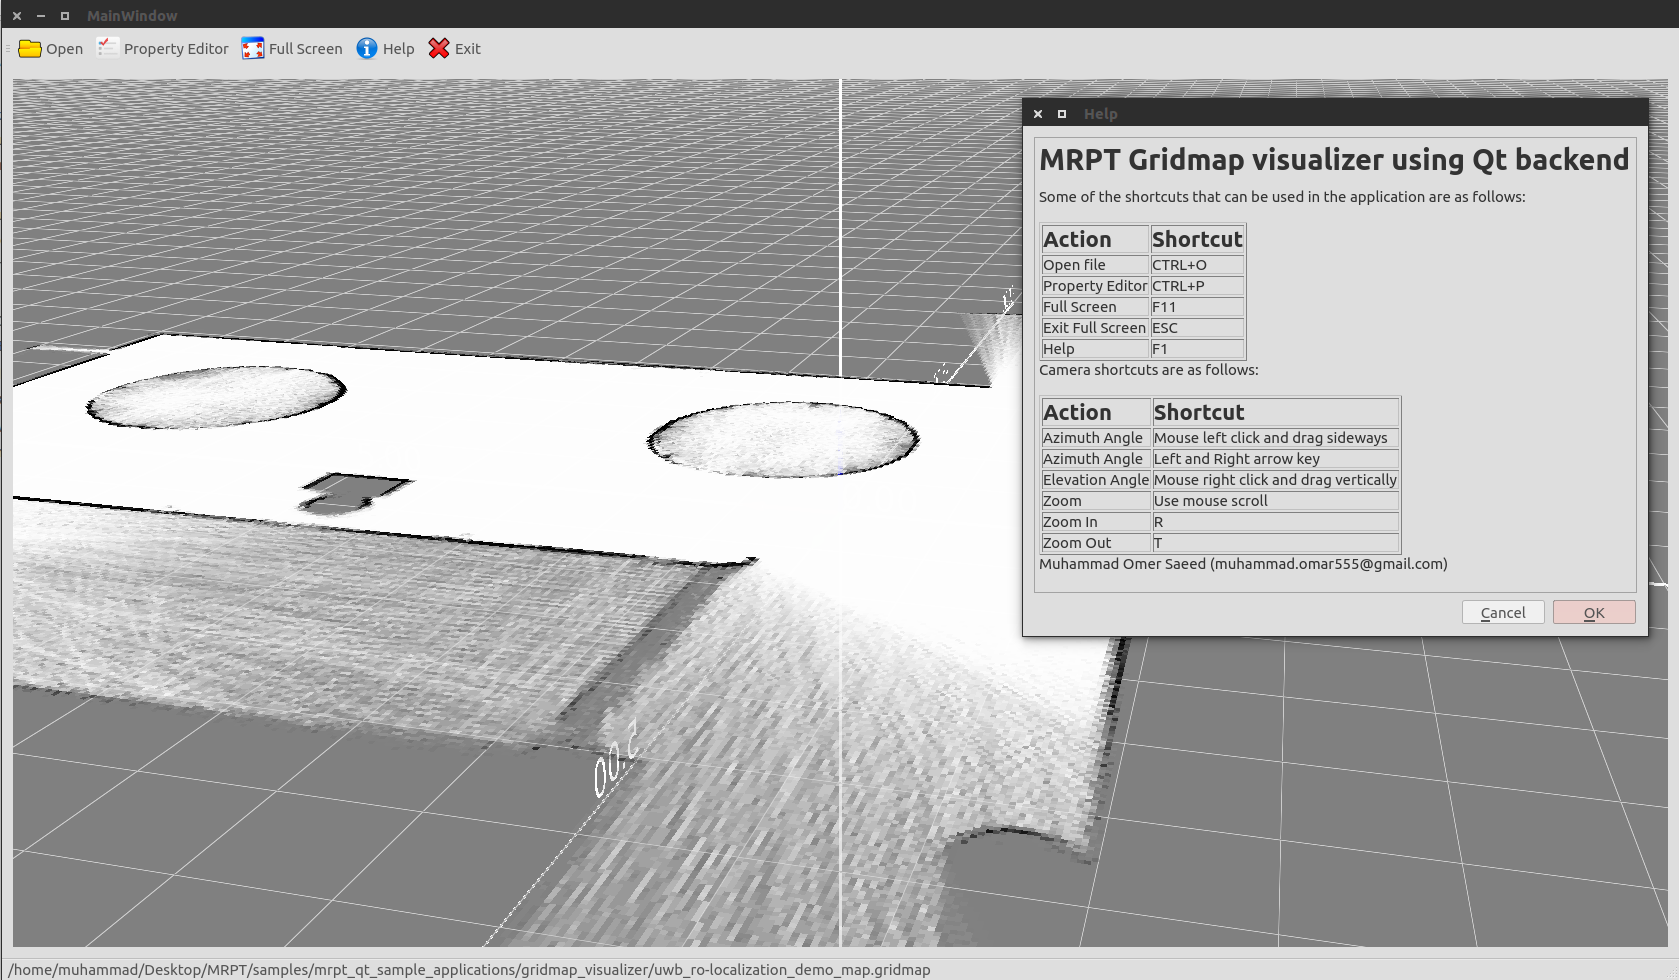
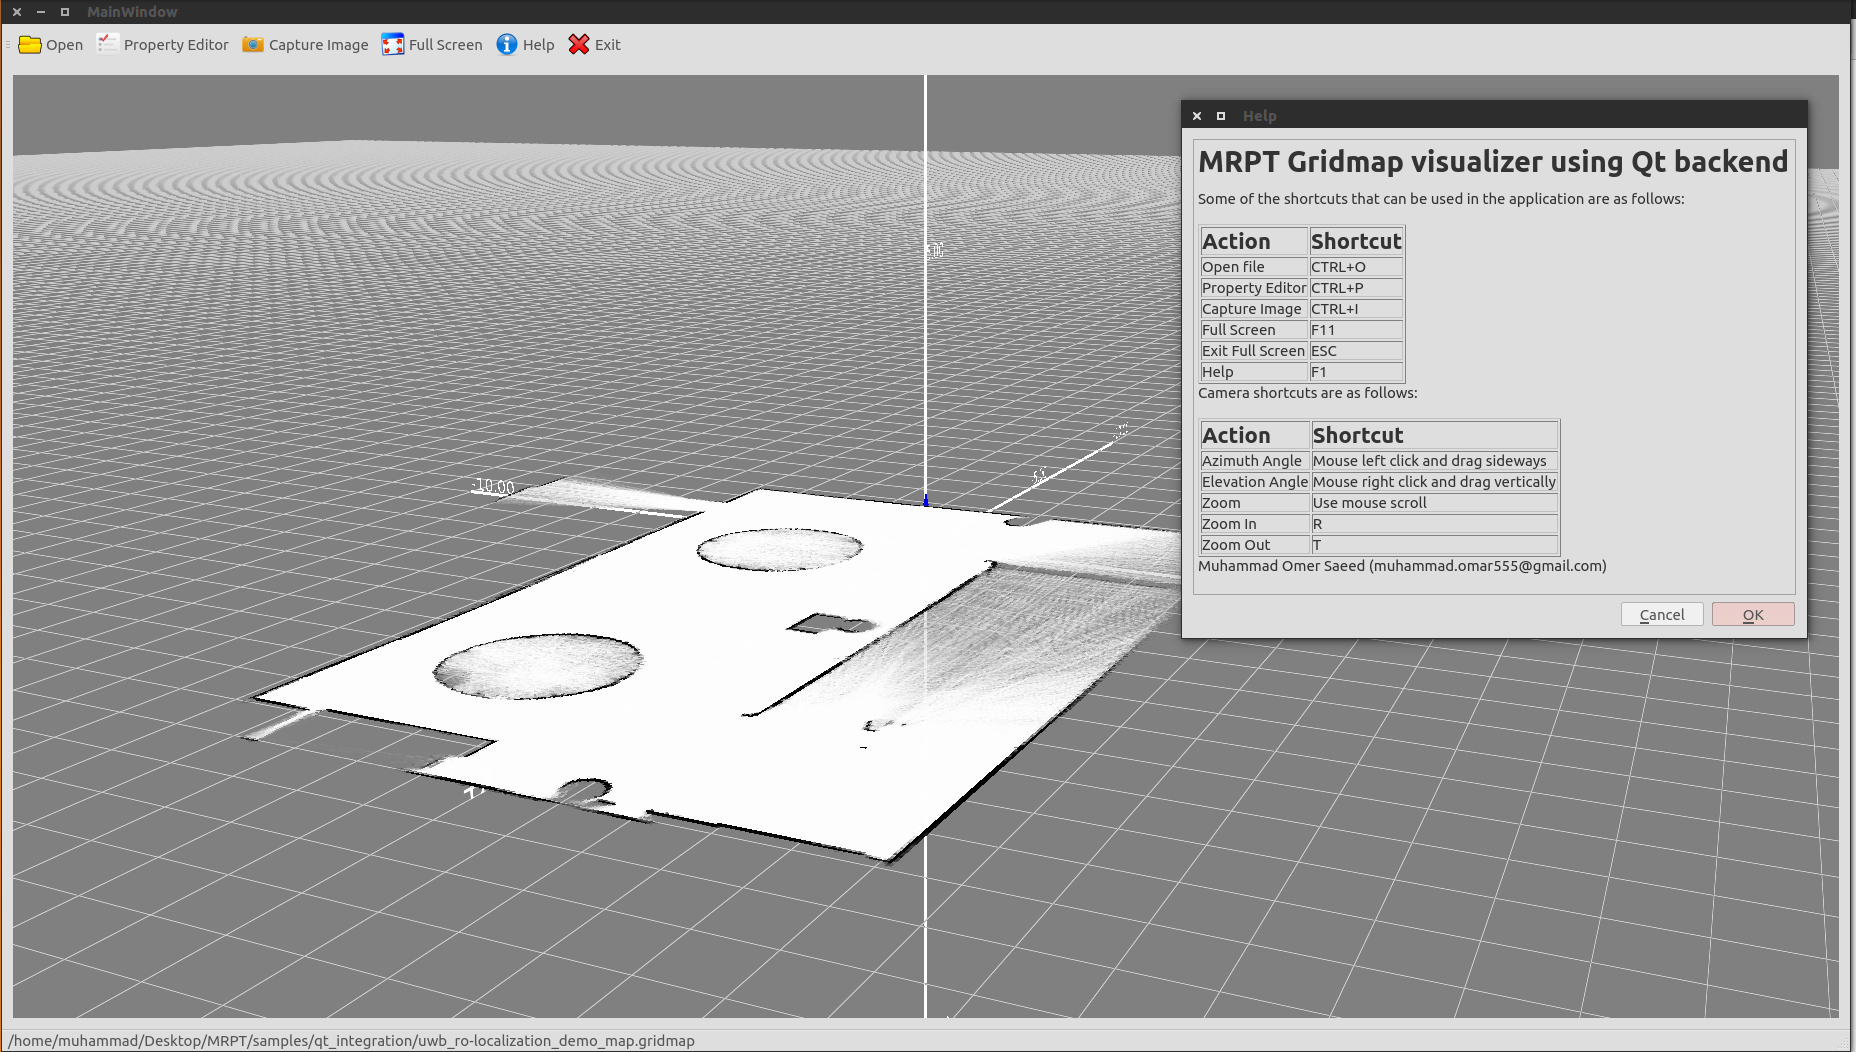
improved a bit

diff --git a/sample_2/ui/help.html b/sample_2/ui/help.html
@@ -20,6 +20,13 @@
     <td>CTRL+P</td> 
 
   </tr>
+
+    <tr>
+    <td>Capture Image</td>
+    <td>CTRL+I</td> 
+
+  </tr>
+  
     <tr>
     <td>Full Screen</td>
     <td>F11</td> 
@@ -50,11 +57,6 @@ Camera shortcuts are as follows:
   <tr>
     <td>Azimuth Angle</td>
     <td>Mouse left click and drag sideways</td> 
-      </tr>
-  <tr>
-<td>Azimuth Angle</td>
-    <td>Left and Right arrow key</td> 
-    
 
   </tr>
 

diff --git a/sample_2/src/MainWindow.cpp b/sample_2/src/MainWindow.cpp
@@ -1,5 +1,5 @@
 #include "../headers/MainWindow.hpp"
-#include "ui_MainWindow.h"
+#include "/home/muhammad/Desktop/MRPT/samples/build-qt_integration-Desktop-Default/ui_MainWindow.h"
 
 MainWindow::MainWindow(QWidget *parent) :
     QMainWindow(parent),
@@ -14,6 +14,7 @@ MainWindow::MainWindow(QWidget *parent) :
     ui->actionFull_Screen->setShortcut(Qt::Key_F11);
     ui->actionHelp->setShortcut(Qt::Key_F1);
     ui->actionOpen->setShortcut(Qt::Key_O | Qt::CTRL);
+    ui->actionCapture_Image->setShortcut(Qt::Key_I | Qt::CTRL);
     ui->actionProperty_Editor->setShortcut(Qt::Key_P | Qt::CTRL);
 
 }
@@ -114,4 +115,17 @@ void MainWindow::on_actionProperty_Editor_triggered()
     PropertyEditor dialog(this);
     dialog.setWindowTitle("Property Editor");
     dialog.exec();
+}
+
+void MainWindow::on_actionCapture_Image_triggered()
+{
+
+    QtGL* w = ui->centralWidget->findChild<QtGL*>("widget");
+    QScreen *screen = QGuiApplication::primaryScreen();
+    QPixmap pixmap;
+    if (screen)
+        pixmap = screen->grabWindow(w->winId());
+
+     QApplication::clipboard()->setPixmap(pixmap);
+     QMessageBox::information(this,"Capture image", "Successfully copied the image to the clipboard!");
 }

diff --git a/sample_2/headers/MainWindow.hpp b/sample_2/headers/MainWindow.hpp
@@ -7,6 +7,8 @@
 #include <QFileDialog>
 #include <QProcess>
 #include <QKeyEvent>
+#include <QScreen>
+#include <QClipboard>
 #include <vector>
 #include <map>
 #include <mrpt/gui/CDisplayWindow3D.h>
@@ -67,6 +69,8 @@ private slots:
     void on_actionHelp_triggered();
 
     void on_actionProperty_Editor_triggered();
+
+    void on_actionCapture_Image_triggered();
 
 private:
     Ui::MainWindow *ui;

diff --git a/sample_2/README.md b/sample_2/README.md
@@ -13,6 +13,10 @@ This app can open any MRPT .gridmap file and render it. Please use the property 
 |-----------------|--------------------------|
 | R               | Zoom in                  |
 | T               | Zoom out                 |
+| CTRL+O          | Open file                |
+| CTRL+P          | Property editor          |
+| CTRL+I          | Capture image            |
+| F11             | Help                     |
 | Arrow key right | Decrease Azimuth angle   |
 | Arrow key left  | Increase Azimuth angle   |
 | Arrow key up    | Increase Elevation angle |
